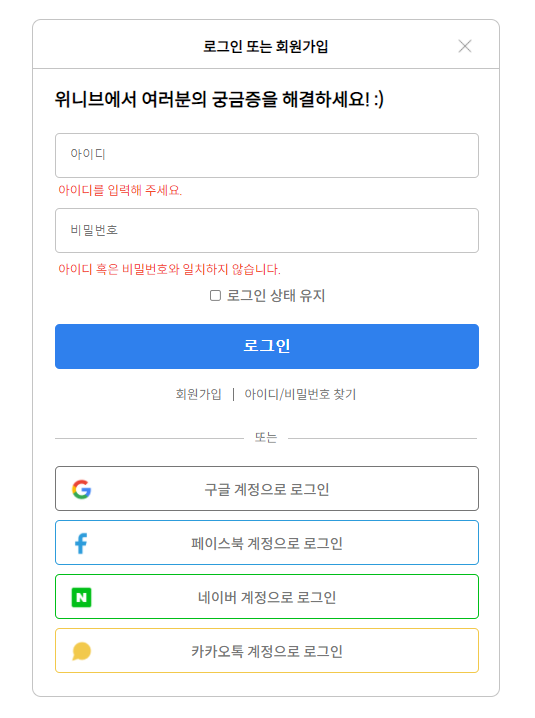
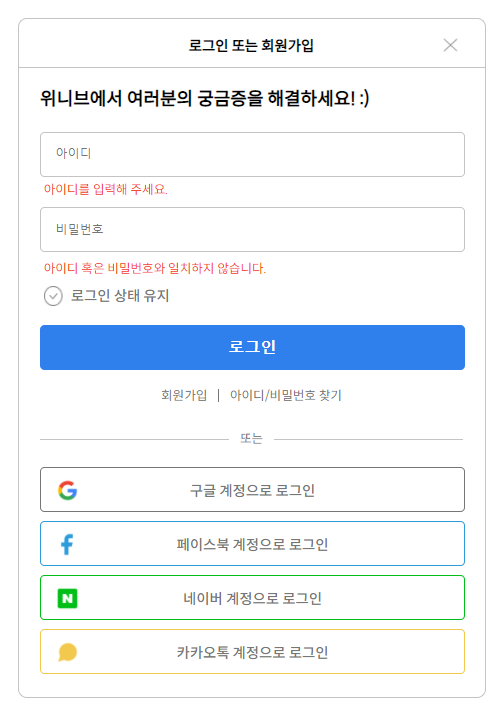
로그인 모달창 UI 구현 과제

diff --git a/style.css b/style.css
@@ -131,19 +131,6 @@
   margin: 0 0 10px 4px;
 }
 
-/* 체크박스 동그랗게 만드는 거 잘 모르겠다..ㅠㅠ */
-/* .login-form .login-stay-checkbox {
-    display: none;
-} */
-/* .login-form .login-stay-txt::before {
-  content: '';
-  display: inline-block;
-  width: 22px;
-  height: 22px;
-  background-image: url(./Ellipse\ 1.png);
-  background-size: contain;
-} */
-
 .login-form .login-stay-txt {
   display: inline-block;
   margin-bottom: 21px;
@@ -151,7 +138,31 @@
   line-height: 20px;
   font-family: "SpoqaHanSansNeo-Medium";
   color: #767676;
+  width: 100%;
+  text-align: left;
 }
+.login-form .login-stay-txt::before {
+  content: '';
+  display: inline-block;
+  width: 22px;
+  height: 22px;
+  background-image: url(./uncheck-point.png);
+  background-size: 22px 22px;
+  background-repeat: no-repeat;
+  vertical-align: -5px;
+  margin:0 8px 0 4px;
+}
+.login-form .login-stay-checkbox:checked + .login-stay-txt::before {
+  content: '';
+  display: inline-block;
+  width: 22px;
+  height: 22px;
+  background-image: url(./check-point.png);
+  background-size: 22px 22px;
+  background-repeat: no-repeat;
+  vertical-align: -5px;
+  margin:0 8px 0 4px;
+} 
 .login-form .login-btn {
   width: 472px;
   height: 50px;

diff --git a/loginForm.html b/loginForm.html
@@ -40,7 +40,7 @@
             required
           />
           <p class="is-alarm">아이디 혹은 비밀번호와 일치하지 않습니다.</p>
-          <input type="checkbox" id="checkbox" class="login-stay-checkbox" />
+          <input type="checkbox" id="checkbox" class="login-stay-checkbox sr-only" />
           <label for="checkbox" class="login-stay-txt">로그인 상태 유지</label>
           <button class="login-btn">로그인</button>
           <!-- form 태그 바깥에 적는 게 낫나..? -->
